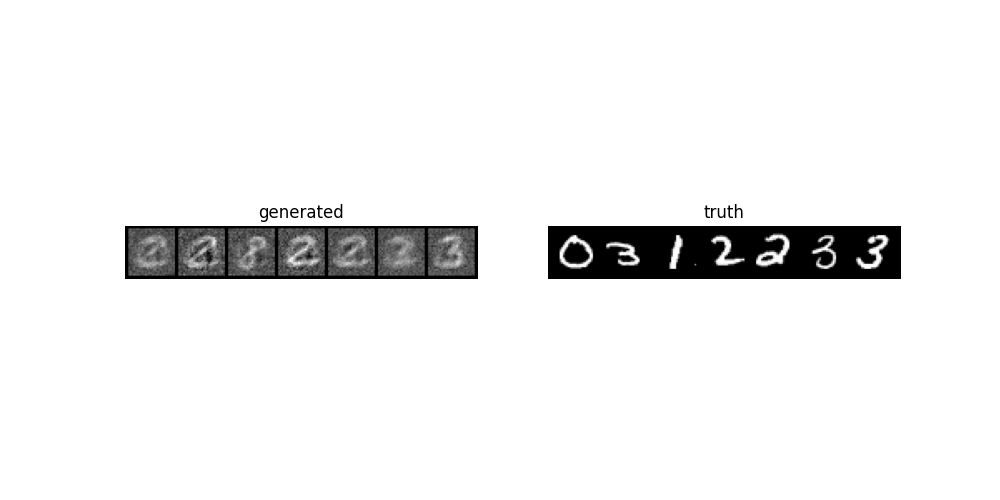
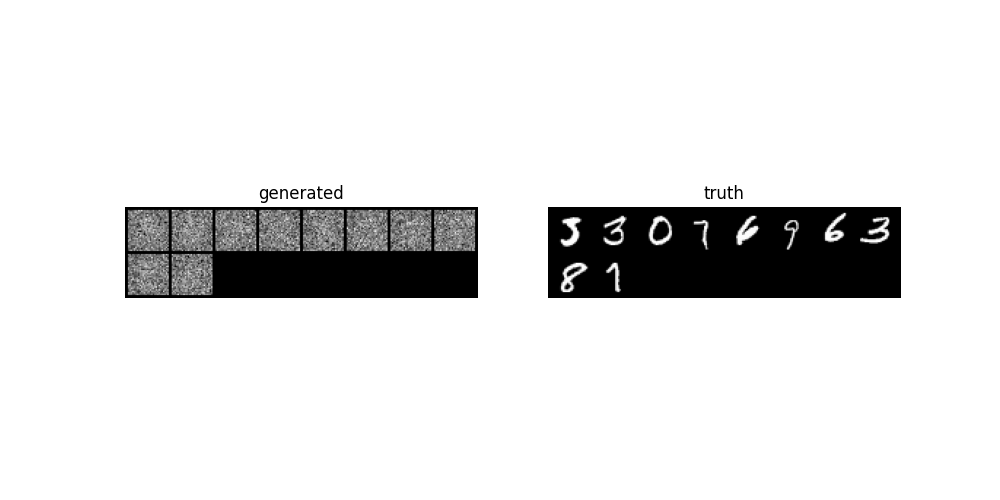
discriminator hurt simple-flow model

Changed region(s): [[0.124, 0.36, 0.496, 0.6], [0.527, 0.36, 0.899, 0.6]]

diff --git a/playground/simple-flow-matching/train.py b/playground/simple-flow-matching/train.py
@@ -9,16 +9,17 @@ https://arxiv.org/pdf/2210.02747
 import torch
 from tqdm import tqdm
 from optimization_playground_shared.dataloaders.Mnist import get_dataloader
-from torchvision.utils import save_image
 import torch.nn as nn
 import math
 import torch.optim as optim
 import random
 from optimization_playground_shared.plot.Plot import Plot, Figure, Image
+from optimization_playground_shared.models.SimpleLabelDiscriminator import SimpleLabelDiscriminator
 
 device = torch.device("cuda") if torch.cuda.is_available() else torch.device("cpu")
 
 T = 10
+STEP_SIZe = 1 / T
 
 class SimpleFlowModel(nn.Module):
     def __init__(self, input_shape=(1, 28, 28)):
@@ -45,7 +46,7 @@ class SimpleFlowModel(nn.Module):
         )
         self.mean = nn.Linear(z_shape, math.prod(input_shape))
         self.var = nn.Linear(z_shape, math.prod(input_shape))
-
+ 
     def sample_image(self, x, shape):
         x = self.out(x) 
         mean = self.mean(x)
@@ -73,9 +74,8 @@ class SimpleFlowModel(nn.Module):
         delta = self.forward(x.reshape((x.shape[0], -1)), combined)
         return delta
 
-    def train(self, x, y):
-        step_size = 1 / T
- 
+    def train(self, x, y, discriminator):
+
         step_index_raw = torch.randint(0, T - 1, size=(y.shape[0], 1), device=device)
         step_index = step_index_raw.view(-1, 1, 1, 1).expand_as(x)
 
@@ -83,21 +83,22 @@ class SimpleFlowModel(nn.Module):
         x_n = self.make_noisy_image(x, original_noise, step_index)
         delta = self.simple_forward(x_n, y, step_index_raw)
 
-        next_x_n = x_n + delta * step_size
+        next_x_n = x_n + delta * STEP_SIZe
         # Compare
         next_time_step = (step_index + 1)
         next_time_step[next_time_step > T] = T
-     #   assert not torch.all(next_time_step == step_index[0][0].item())
         target = self.make_noisy_image(x, original_noise, next_time_step)
         error = torch.nn.functional.mse_loss(
             next_x_n * 100,
             target * 100
-        ) 
-        #+ torch.nn.functional.mse_loss(
-        #    self.sample(y),
-        #    x
-        #) * 0.5
-        error.backward()
+        )
+        # Use discriminator to verify if the model seems reasonable
+        # if random.randint(0, 10) == 2:
+        (_, labels) = discriminator(self.sample(y))
+        error += torch.nn.functional.cross_entropy(
+            labels,
+            y
+        )
 
         if random.randint(0, 100) == 10:
             plot = Plot()
@@ -135,15 +136,32 @@ class SimpleFlowModel(nn.Module):
         for index in range(1, T):
             step_index = torch.full((n_sample, 1), index, device=device).float()
             delta = self.simple_forward(x_n, y, step_index)
-            x_n = x_n + delta # * (1 / T)
+            x_n += delta  * STEP_SIZe
+
         return x_n / torch.max(x_n)
 
 def train():
     progress = tqdm(range(2_000), desc='Training flow')
     train, _ = get_dataloader(
-        subset=256,
-        batch_size=32
+        subset=2048,
+        batch_size=128,
+        shuffle=True
     )
+    discriminator = SimpleLabelDiscriminator().to(device)
+    discriminator_optim = optim.Adam(discriminator.parameters())
+    for epoch in tqdm(range(5)):
+        for _, (X, y) in enumerate(train):
+            X = X.to(device)
+            y = y.to(device)
+            (_, y_predicted) = discriminator(X)
+            discriminator_optim.zero_grad()
+            loss = torch.nn.functional.cross_entropy(
+                y_predicted,
+                y
+            )
+            loss.backward()
+            discriminator_optim.step()
+
     model = SimpleFlowModel().to(device)
     adam = optim.Adam(model.parameters()) 
     training_loss = []
@@ -153,7 +171,8 @@ def train():
             X = X.to(device)
             y = y.to(device)
             adam.zero_grad()
-            loss = model.train(X, y)
+            loss = model.train(X, y, discriminator)
+            loss.backward()
             adam.step()
             sum_loss += loss
 
@@ -175,6 +194,7 @@ def train():
             )            
         progress.set_description(f'Loss {sum_loss.item()}')
         training_loss.append(sum_loss.item())
+
     plot = Plot()
     plot.plot_figures(
         figures=[
